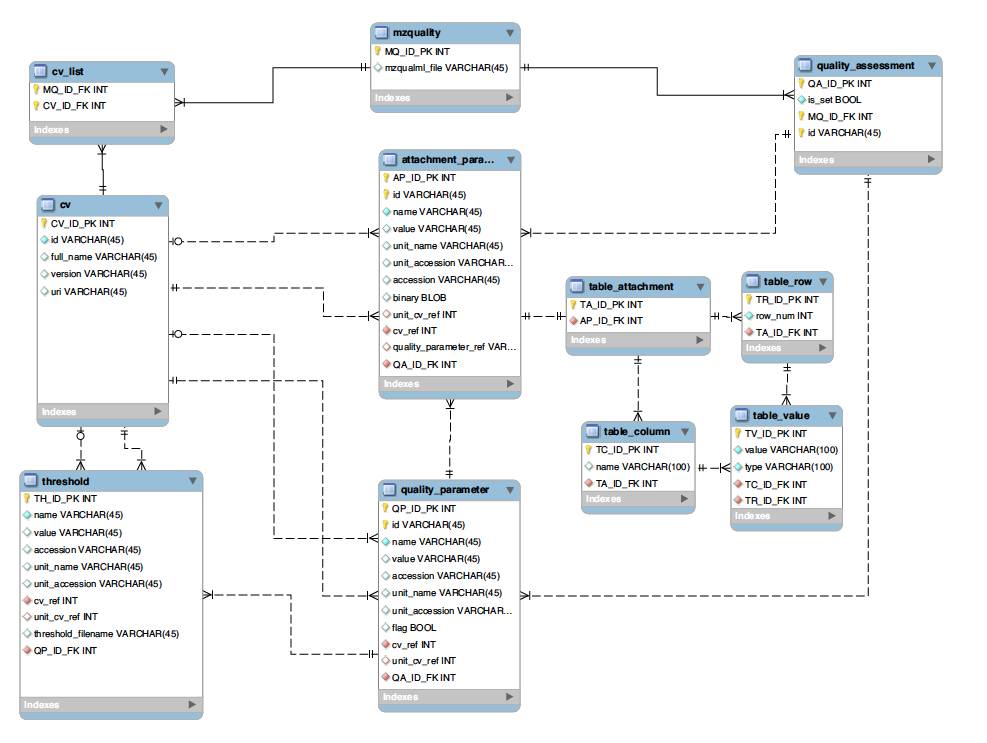
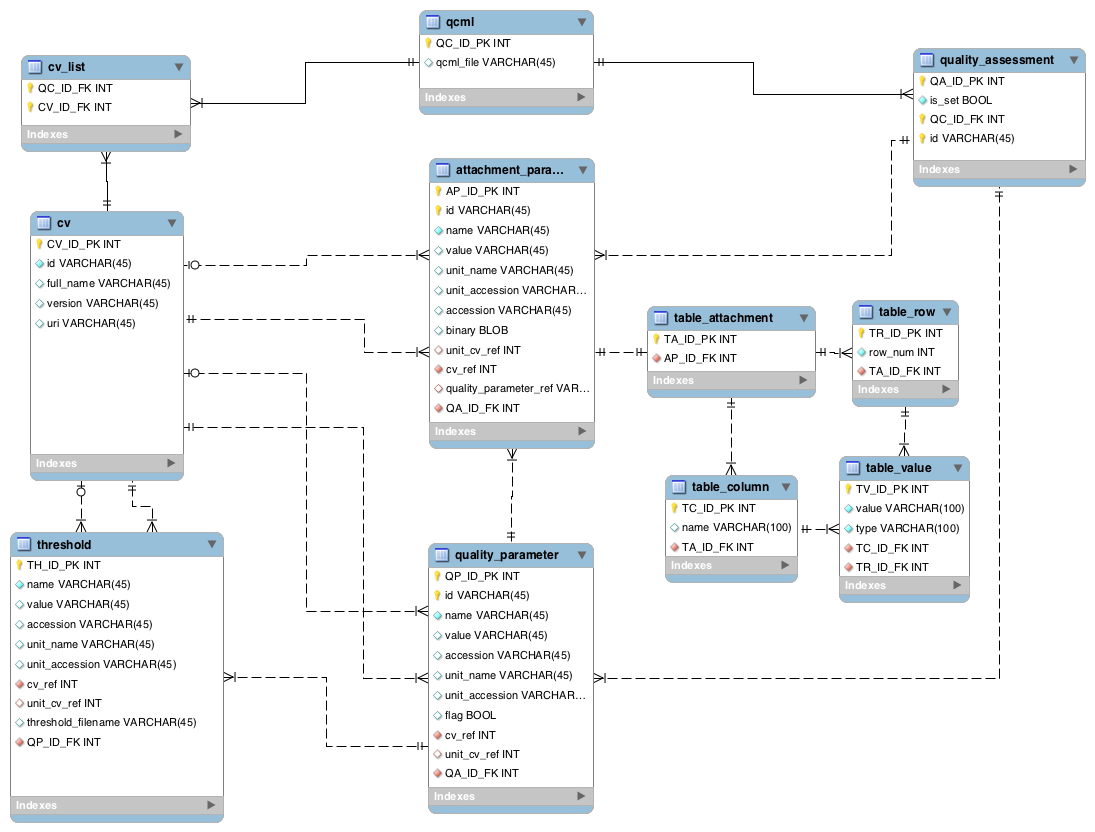
Changed MzQuality to QcML name

diff --git a/trunk/qcdb/converters/qcml2qcdb.py b/trunk/qcdb/converters/qcml2qcdb.py
@@ -13,7 +13,7 @@ XML_HEADER = '<?xml version="1.0" encoding="ISO-8859-1"?>\n<?xml-stylesheet type
 XMLNS = '"http://www.prime-xs.eu/ms/qcml"' 
 
 # XML Tags
-XML_MZQUALITY = 'qcML'
+XML_QCML = 'qcML'
 XML_CVLIST = 'cvList'
 XML_CV = 'cv'
 XML_RUN_QUALITY = 'runQuality'
@@ -38,20 +38,18 @@ def getParamDict(param_list, offset="\t\t\t"):
 
 def createSQLiteTables(conn):
     # Create tables
-    sql = 'CREATE TABLE IF NOT EXISTS mzquality (MQ_ID_PK INTEGER PRIMARY KEY ASC AUTOINCREMENT, mzqualml_file VARCHAR(45) NULL);'
+    sql = 'CREATE TABLE IF NOT EXISTS qcml (QC_ID_PK INTEGER PRIMARY KEY ASC AUTOINCREMENT, qcml_file VARCHAR(45) NULL);'
     conn.execute(sql)
-    sql = 'CREATE TABLE IF NOT EXISTS quality_assessment (QA_ID_PK INTEGER PRIMARY KEY ASC AUTOINCREMENT, id VARCHAR(45) UNIQUE NOT NULL, is_set INTEGER(1) NOT NULL DEFAULT 0, MQ_ID_FK INTEGER NOT NULL, FOREIGN KEY (MQ_ID_FK) REFERENCES mzquality (MQ_ID_PK));'
+    sql = 'CREATE TABLE IF NOT EXISTS quality_assessment (QA_ID_PK INTEGER PRIMARY KEY ASC AUTOINCREMENT, id VARCHAR(45) UNIQUE NOT NULL, is_set INTEGER(1) NOT NULL DEFAULT 0, QC_ID_FK INTEGER NOT NULL, FOREIGN KEY (QC_ID_FK) REFERENCES qcml (QC_ID_PK));'
     conn.execute(sql)
     sql = 'CREATE TABLE IF NOT EXISTS cv (CV_ID_PK INTEGER PRIMARY KEY ASC AUTOINCREMENT, id VARCHAR(45) UNIQUE NOT NULL, full_name VARCHAR(45) NULL, version VARCHAR(45) NULL, uri VARCHAR(45) NULL);'
     conn.execute(sql)
-    sql = 'CREATE TABLE IF NOT EXISTS cv_list (MQ_ID_FK INTEGER NOT NULL, CV_ID_FK INTEGER NOT NULL, PRIMARY KEY (MQ_ID_FK, CV_ID_FK), FOREIGN KEY (MQ_ID_FK ) REFERENCES mzquality (MQ_ID_PK ) FOREIGN KEY (CV_ID_FK ) REFERENCES cv (CV_ID_PK ));'
+    sql = 'CREATE TABLE IF NOT EXISTS cv_list (QC_ID_FK INTEGER NOT NULL, CV_ID_FK INTEGER NOT NULL, PRIMARY KEY (QC_ID_FK, CV_ID_FK), FOREIGN KEY (QC_ID_FK ) REFERENCES qcml (QC_ID_PK ) FOREIGN KEY (CV_ID_FK ) REFERENCES cv (CV_ID_PK ));'
     conn.execute(sql)
-    # ID unique: sql = 'CREATE TABLE IF NOT EXISTS quality_parameter (QP_ID_PK INTEGER PRIMARY KEY ASC AUTOINCREMENT, id VARCHAR(45) UNIQUE NOT NULL, name VARCHAR(45) NOT NULL, value VARCHAR(45) NULL, accession VARCHAR(45) NULL, unit_name VARCHAR(45) NULL, unit_accession VARCHAR(45) NULL, cv_ref INTEGER NOT NULL, unit_cv_ref INTEGER NULL, QA_ID_FK INTEGER NOT NULL, FOREIGN KEY (unit_cv_ref ) REFERENCES cv (CV_ID_PK ), FOREIGN KEY (cv_ref ) REFERENCES cv (CV_ID_PK ), FOREIGN KEY (QA_ID_FK) REFERENCES quality_assessment (QA_ID_PK));'
     sql = 'CREATE TABLE IF NOT EXISTS quality_parameter (QP_ID_PK INTEGER PRIMARY KEY ASC AUTOINCREMENT, id VARCHAR(45) UNIQUE NOT NULL, name VARCHAR(45) NOT NULL, value VARCHAR(45) NULL, accession VARCHAR(45) NULL, unit_name VARCHAR(45) NULL, unit_accession VARCHAR(45) NULL, flag BOOLEAN, cv_ref INTEGER NOT NULL, unit_cv_ref INTEGER NULL, QA_ID_FK INTEGER NOT NULL, FOREIGN KEY (unit_cv_ref ) REFERENCES cv (CV_ID_PK ), FOREIGN KEY (cv_ref ) REFERENCES cv (CV_ID_PK ), FOREIGN KEY (QA_ID_FK) REFERENCES quality_assessment (QA_ID_PK));'
     conn.execute(sql)
     sql = 'CREATE TABLE IF NOT EXISTS threshold (TH_ID_PK INTEGER PRIMARY KEY ASC AUTOINCREMENT, name VARCHAR(45) NOT NULL, value VARCHAR(45) NULL, accession VARCHAR(45) NULL, unit_name VARCHAR(45) NULL, unit_accession VARCHAR(45) NULL, cv_ref INTEGER NOT NULL, unit_cv_ref INTEGER NULL, threshold_filename VARCHAR(45), QP_ID_FK INTEGER NOT NULL, FOREIGN KEY (unit_cv_ref ) REFERENCES cv (CV_ID_PK ), FOREIGN KEY (cv_ref ) REFERENCES cv (CV_ID_PK ), FOREIGN KEY (QP_ID_FK) REFERENCES quality_parameter (QP_ID_PK));'
     conn.execute(sql)
-    # id unique: sql = 'CREATE TABLE IF NOT EXISTS attachment_parameter (AP_ID_PK INTEGER PRIMARY KEY ASC AUTOINCREMENT, name VARCHAR(45) NOT NULL, value VARCHAR(45) NULL, unit_name VARCHAR(45) NULL, unit_accession VARCHAR(45) NULL, accession VARCHAR(45) NULL, binary BLOB NOT NULL, unit_cv_ref INTEGER NULL, cv_ref INTEGER NOT NULL, quality_parameter_ref VARCHAR(45) NULL, QA_ID_FK INTEGER NOT NULL, FOREIGN KEY (unit_cv_ref ) REFERENCES cv (CV_ID_PK ), FOREIGN KEY (cv_ref ) REFERENCES cv (CV_ID_PK ), FOREIGN KEY (quality_parameter_ref ) REFERENCES quality_parameter (id ), FOREIGN KEY (QA_ID_FK ) REFERENCES quality_assessment (QA_ID_PK ));'
     sql = 'CREATE TABLE IF NOT EXISTS attachment_parameter (AP_ID_PK INTEGER PRIMARY KEY ASC AUTOINCREMENT, id VARCHAR(45) UNIQUE NOT NULL, name VARCHAR(45) NOT NULL, value VARCHAR(45) NULL, unit_name VARCHAR(45) NULL, unit_accession VARCHAR(45) NULL, accession VARCHAR(45) NULL, binary BLOBs, unit_cv_ref INTEGER NULL, cv_ref INTEGER NOT NULL, quality_parameter_ref VARCHAR(45) NULL, QA_ID_FK INTEGER NOT NULL, FOREIGN KEY (unit_cv_ref ) REFERENCES cv (CV_ID_PK ), FOREIGN KEY (cv_ref ) REFERENCES cv (CV_ID_PK ), FOREIGN KEY (QA_ID_FK ) REFERENCES quality_assessment (QA_ID_PK ));'
     conn.execute(sql)
     sql = 'CREATE TABLE IF NOT EXISTS table_attachment (TA_ID_PK INTEGER PRIMARY KEY ASC AUTOINCREMENT, AP_ID_FK INTEGER NOT NULL, FOREIGN KEY (AP_ID_FK) REFERENCES attachment_parameter (AP_ID_PK));'
@@ -60,7 +58,6 @@ def createSQLiteTables(conn):
     conn.execute(sql)
     sql = 'CREATE TABLE IF NOT EXISTS table_row (TR_ID_PK INTEGER PRIMARY KEY ASC AUTOINCREMENT, row_num INTEGER, TA_ID_FK INTEGER NOT NULL, FOREIGN KEY (TA_ID_FK) REFERENCES table_attachment (TA_ID_PK));'
     conn.execute(sql)
-    # SQLite doesn't allow multiple foreign keys (omit FOREIGN KEY (TR_ID_FK) REFERENCES table_row (TR_ID_PK))
     sql = 'CREATE TABLE IF NOT EXISTS table_value (TV_ID_PK INTEGER PRIMARY KEY ASC AUTOINCREMENT, value VARCHAR(100), type VARCHAR(100), TR_ID_FK INTEGER NOT NULL, TC_ID_FK INTEGER NOT NULL, FOREIGN KEY (TC_ID_FK) REFERENCES table_column (TC_ID_PK) );'
     conn.execute(sql)
 
@@ -120,6 +117,8 @@ class CV:
         self.fullName = row[2]
         self.version = row[3]
         self.uri = row[4]
+        if DEBUG:
+            print " - Got cv: " + str(row)
 
     def toSQLite(self, conn):
         cursor = conn.cursor()
@@ -137,7 +136,7 @@ class CV:
 
 class QcML:
     def __init__(self, qcml_file = ""):
-        self.mzQualMLFile = qcml_file
+        self.QcMLFile = qcml_file
         self.runQualityAssessmentList = [] # QualityAssessment list
         self.setQualityAssessmentList = [] # QualityAssessment list
         self.cvList = []
@@ -146,7 +145,7 @@ class QcML:
 
     def printout(self):
         print 'qcML printout:'
-        print '\t mzQualMLFile = ' + self.mzQualMLFile
+        print '\t QcMLFile = ' + self.QcMLFile
         print "\t - CVList: " 
         for item in self.cvList:
             item.printout()
@@ -175,12 +174,10 @@ class QcML:
         return    
 
     def toXml(self, file):
-                                
-        #file.write('<?xml version="1.0" encoding="UTF-8"?>\n')
         file.write(XML_HEADER)
         file.write('<!-- XML file generated by qcml2qcdb.py (espona@imsb.biol.ethz.ch) -->\n')
         
-        file.write('<' + XML_MZQUALITY + ' xmlns=' + XMLNS + '>\n')
+        file.write('<' + XML_QCML + ' xmlns=' + XMLNS + '>\n')
 
         for assessment in self.runQualityAssessmentList + self.setQualityAssessmentList:
             assessment.toXml(file)
@@ -189,24 +186,24 @@ class QcML:
         for item in self.cvList:
             item.toXml(file, offset="\t\t")
         file.write("\t</" + XML_CVLIST + ">"  + "\n")
-        file.write('</' + XML_MZQUALITY + '>' + "\n")
+        file.write('</' + XML_QCML + '>' + "\n")
         return    
     
     def fromSQLite(self, conn, id):
         cursor = conn.cursor()
         self.sqliteId = id
-        cursor.execute("SELECT mzqualml_file from mzquality where MQ_ID_PK=:id;", {"id":mzquality_pk})
-        self.mzQualMLFile = cursor.fetchone()[0]
+        cursor.execute("SELECT qcml_file from qcml where QC_ID_PK=:id;", {"id":qcml_pk})
+        self.QcMLFile = cursor.fetchone()[0]
         
         # get cv list
-        res = cursor.execute("select CV_ID_PK, id, full_name, version, uri from cv_list join cv on (CV_ID_FK=CV_ID_PK) where MQ_ID_FK=:id;", {"id":mzquality_pk})
+        res = cursor.execute("select CV_ID_PK, id, full_name, version, uri from cv_list join cv on (CV_ID_FK=CV_ID_PK) where QC_ID_FK=:id;", {"id":qcml_pk})
         for row in res:
             new_cv = CV("")
             new_cv.fromSQLite(row)
             self.cvList += [new_cv]
         
         # get qualityAssessmentList
-        res = cursor.execute("select QA_ID_PK, id, is_set from quality_assessment where MQ_ID_FK=:id;", {"id":mzquality_pk})
+        res = cursor.execute("select QA_ID_PK, id, is_set from quality_assessment where QC_ID_FK=:id;", {"id":qcml_pk})
         for row in res:
             new_assessment = QualityAssessment({"ID":row[1]})
             new_assessment.fromSQLite(conn, row)
@@ -218,24 +215,24 @@ class QcML:
         
     def toSQLite(self, conn):
         cursor = conn.cursor()
-        cursor.execute("insert into mzquality(mzqualml_file) values (:file);", {"file":self.mzQualMLFile})
+        cursor.execute("insert into qcml(qcml_file) values (:file);", {"file":self.QcMLFile})
         cursor.execute('SELECT last_insert_rowid()')
-        mzquality_pk = cursor.fetchone()[0]
-        self.sqliteId = mzquality_pk
+        qcml_pk = cursor.fetchone()[0]
+        self.sqliteId = qcml_pk
         if DEBUG:
-            print "mzquality_pk = " + str(mzquality_pk)
+            print "qcml_pk = " + str(qcml_pk)
         
         for cv in self.cvList:
             cv_pk = cv.toSQLite(conn)
             if DEBUG:
                 print "\t - cv_pk = " + str(cv_pk) 
-            cursor.execute("insert into cv_list(MQ_ID_FK, CV_ID_FK) values (:MQ_ID_FK, :CV_ID_FK);", {"MQ_ID_FK":mzquality_pk, "CV_ID_FK":cv_pk})
+            cursor.execute("insert into cv_list(QC_ID_FK, CV_ID_FK) values (:QC_ID_FK, :CV_ID_FK);", {"QC_ID_FK":qcml_pk, "CV_ID_FK":cv_pk})
             if DEBUG:
-                print "\t - cl_pk = (" + str(mzquality_pk) + ", " + str(cv_pk) + ")"
+                print "\t - cl_pk = (" + str(qcml_pk) + ", " + str(cv_pk) + ")"
             
         for assessment in self.runQualityAssessmentList + self.setQualityAssessmentList:
-            assessment_pk = assessment.toSQLite(conn,mzquality_pk, self.cvList)
-        return mzquality_pk
+            assessment_pk = assessment.toSQLite(conn,qcml_pk, self.cvList)
+        return qcml_pk
 
     def getUniqueCVList(self):        
         def getCVfromList(param_list, cvList):
@@ -322,6 +319,10 @@ class QualityAssessment:
         self.sqliteId = row[0]
         self.id = row[1]
         self.isSet = bool(row[2])
+        
+        if DEBUG:
+            print " - Got quality_assessment: " + str(row)
+
         # quality parameters
         res = cursor.execute("select QP_ID_PK, quality_parameter.id as id, name, value, unit_name, unit_accession, cv2.id as unit_cv_ref, accession, cv1.id as cv_ref, flag\
                              from quality_parameter join cv as cv1 on (cv_ref=cv1.CV_ID_PK) left join cv as cv2 on (unit_cv_ref=cv2.CV_ID_PK) where QA_ID_FK=:id;", {"id":self.sqliteId})
@@ -338,10 +339,10 @@ class QualityAssessment:
             new_attachment_parameter.fromSQLite(row, conn)
             self.paramList += [new_attachment_parameter]
 
-    def toSQLite(self, conn, mzquality_pk, cv_list):
+    def toSQLite(self, conn, qcml_pk, cv_list):
         cursor = conn.cursor()
-        cursor.execute("insert into quality_assessment(id, is_set, MQ_ID_FK) values (:id, :is_set, :MQ_ID_FK);", 
-                       {"id":self.id, "is_set":int(self.isSet), "MQ_ID_FK":mzquality_pk})
+        cursor.execute("insert into quality_assessment(id, is_set, QC_ID_FK) values (:id, :is_set, :QC_ID_FK);", 
+                       {"id":self.id, "is_set":int(self.isSet), "QC_ID_FK":qcml_pk})
         cursor.execute('SELECT last_insert_rowid()')
         self.sqliteId = cursor.fetchone()[0]
         if DEBUG:
@@ -494,6 +495,9 @@ class QualityParameter(CVParam):
         cursor = conn.cursor()
         res = cursor.execute("select TH_ID_PK, NULL as id, name, value, unit_name, unit_accession, cv2.id as unit_cv_ref, accession, cv1.id as cv_ref, threshold_filename\
                              from threshold join cv as cv1 on (cv_ref=cv1.CV_ID_PK) left join cv as cv2 on (unit_cv_ref=cv2.CV_ID_PK) where QP_ID_FK=:id;", {"id":self.sqliteId})
+        if DEBUG:
+            print " - Got quality_parameter: " + str(row)
+        
         for th_row in res:
             threshold = Threshold({})
             threshold.fromSQLite(th_row)
@@ -577,6 +581,8 @@ class Threshold(CVParam):
     def fromSQLite(self, row):
         CVParam.fromSQLite(self, row)
         self.thresholdFilename = row[9]
+        if DEBUG:
+            print " - Got threshold: " + str(row)
 
     def toXml(self, file):
         file.write('\t\t\t<' + XML_THRESHOLD)
@@ -657,6 +663,8 @@ class AttachmentParam(CVParam):
         self.binary_txt = row[9]
         self.binary = self.readBinary(self.binary_txt)
         self.qualityParameterRef = row[10]
+        if DEBUG:
+            print " - Got attachment_parameter: " + str(row)
         
         cursor = conn.cursor()       
         res = cursor.execute('SELECT TA_ID_PK from table_attachment where AP_ID_FK=:sqliteId', {"sqliteId":int(self.sqliteId)})
@@ -749,6 +757,8 @@ class TableAttachment:
         
     def fromSQLite(self, sqliteId, conn):
         self.sqliteId = sqliteId
+        if DEBUG:
+            print " - Got table_attachment: " + str(sqliteId)
         cursor = conn.cursor()       
         # get columns
         res = cursor.execute('SELECT TC_ID_PK, name, TA_ID_FK from table_column where TA_ID_FK=:sqliteId', 
@@ -856,7 +866,7 @@ if mode == "qcml2qcdb":
     # 2. Build QcML object 
     print " - Parsing qcML file ..."
     # Assumes only one QcML element per file
-    qcML.fromXml(xmldoc.getElementsByTagName(XML_MZQUALITY)[0])
+    qcML.fromXml(xmldoc.getElementsByTagName(XML_QCML)[0])
     # fix for duplicated/missing CV elements
     qcML.getUniqueCVList()
     
@@ -880,7 +890,7 @@ if mode == "qcml2qcdb":
     createSQLiteTables(c)
 
     # Insert data in the database
-    mzquality_pk = qcML.toSQLite(conn)
+    qcml_pk = qcML.toSQLite(conn)
     
     # Save (commit) the changes and close the connection
     conn.commit()
@@ -893,24 +903,24 @@ else:
     print " - Generating qcML object(s) from database:"
     conn = sqlite3.connect(db_name)    
     cursor = conn.cursor()
-    res = cursor.execute ("SELECT MQ_ID_PK from mzquality;")
+    res = cursor.execute ("SELECT QC_ID_PK from qcml;")
     for row in res:
-        mzquality_pk = row[0]
-        print "\t * Getting mzquality object from database, id = " + str(mzquality_pk)
+        qcml_pk = row[0]
+        print "\t * Getting qcml object from database, id = " + str(qcml_pk)
         qcML = QcML("")
-        qcML.fromSQLite(conn, mzquality_pk)
+        qcML.fromSQLite(conn, qcml_pk)
         if DEBUG:
             qcML.printout()
         print "\t\t - Writing qcML file..."
         if len(sys.argv) < 3:
-            new_qcml_file =  os.path.splitext(db_name)[0] + "_qcdb_" + str(mzquality_pk) + ".qcml"
+            new_qcml_file =  os.path.splitext(db_name)[0] + "_qcdb_" + str(qcml_pk) + ".qcml"
         else:
-            new_qcml_file = os.path.splitext(db_name)[0] + "_" + str(mzquality_pk) + ".qcml"   
+            new_qcml_file = os.path.splitext(db_name)[0] + "_" + str(qcml_pk) + ".qcml"   
         if DEBUG:
             print 'SQLite database: ' + db_name
         with open(new_qcml_file, 'w') as sink:
             qcML.toXml(sink)
         print '\t\t - Generated qcML file is: ' + new_qcml_file
-    # Xlose the connection
+    # Close the connection
     conn.close()
-    print ' Finished! Written ' + str(mzquality_pk) + ' qcML file(s)\n'
+    print ' Finished! Written ' + str(qcml_pk) + ' qcML file(s)\n'
